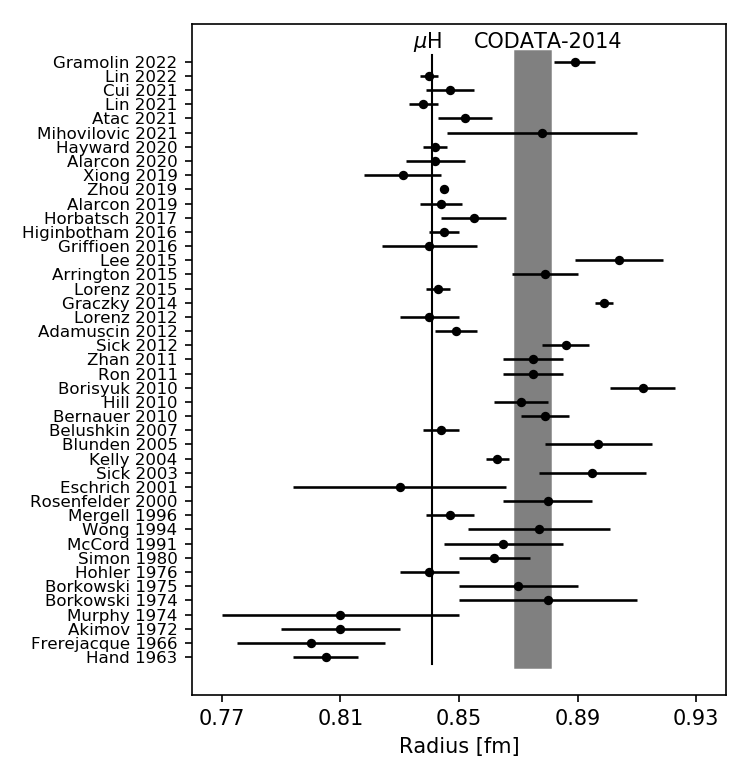
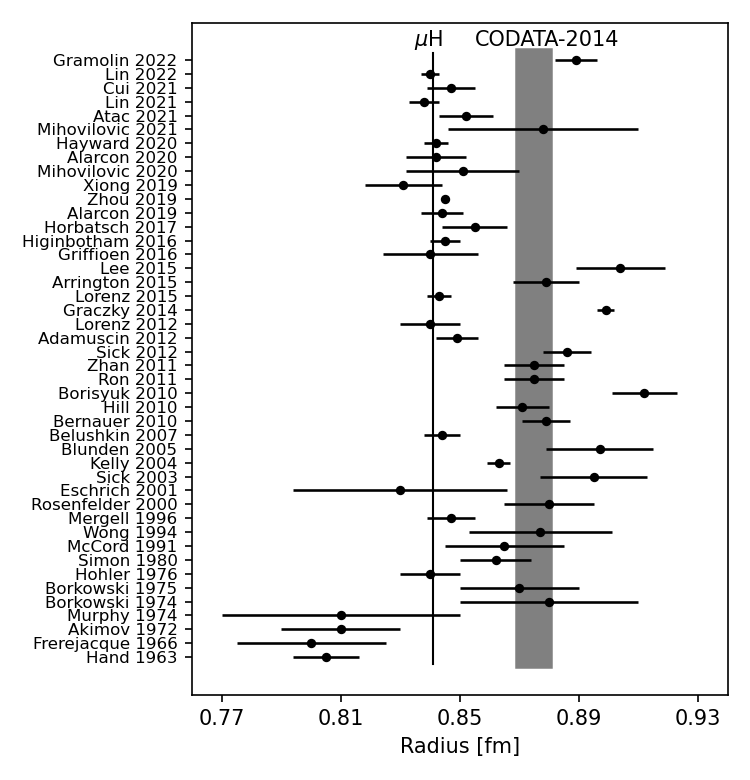
Added 2020 paper by Miha.

diff --git a/ScatteringResults.py b/ScatteringResults.py
@@ -43,14 +43,15 @@ mylist=np.array([
 ["Alarcon 2019",     33,  0.844,  0.007,  "https://doi.org/10.1103/PhysRevC.99.044303"  ],
 ["Zhou 2019",        34,  0.845,  0.001,  "https://doi.org/10.1103/PhysRevC.99.055202"  ],
 ["Xiong 2019",       35,  0.831,  0.013,  "https://doi.org/10.1038/s41586-019-1721-2"  ],
-["Alarcon 2020",     36,  0.842,  0.010,  "https://doi.org/10.1103/PhysRevC.102.035203"  ],
-["Hayward 2020",     37,  0.842,  0.004,  "https://doi.org/10.1016/j.nuclphysa.2020.121767"],
-["Mihovilovic 2021", 38,  0.878,  0.032,  "https://doi.org/10.1140/epja/s10050-021-00414-x" ],
-["Atac 2021",        39,  0.852,  0.009,  "https://doi.org/10.1140/epja/s10050-021-00389-9"],
-["Lin 2021",         40,  0.838,  0.005,  "https://doi.org/10.1016/j.physletb.2021.136254"],
-["Cui 2021",         41,  0.847,  0.008,  "https://doi.org/110.1103/PhysRevLett.127.092001"],
-["Lin 2022",         42,  0.840,  0.003,  "https://doi.org/10.1103/PhysRevLett.128.052002"],
-["Gramolin 2022",    43,  0.889,  0.007,  "https://doi.org/10.1103/PhysRevD.105.054004"]
+["Mihovilovic 2020", 36,  0.851,  0.019,  "https://doi.org/10.3389/fphy.2020.00036"], 
+["Alarcon 2020",     37,  0.842,  0.010,  "https://doi.org/10.1103/PhysRevC.102.035203"  ],
+["Hayward 2020",     38,  0.842,  0.004,  "https://doi.org/10.1016/j.nuclphysa.2020.121767"],
+["Mihovilovic 2021", 39,  0.878,  0.032,  "https://doi.org/10.1140/epja/s10050-021-00414-x" ],
+["Atac 2021",        40,  0.852,  0.009,  "https://doi.org/10.1140/epja/s10050-021-00389-9"],
+["Lin 2021",         41,  0.838,  0.005,  "https://doi.org/10.1016/j.physletb.2021.136254"],
+["Cui 2021",         42,  0.847,  0.008,  "https://doi.org/110.1103/PhysRevLett.127.092001"],
+["Lin 2022",         43,  0.840,  0.003,  "https://doi.org/10.1103/PhysRevLett.128.052002"],
+["Gramolin 2022",    44,  0.889,  0.007,  "https://doi.org/10.1103/PhysRevD.105.054004"]
 ])
 
 x  = mylist[:,2].astype(np.float)
@@ -72,11 +73,11 @@ plt.yticks(y, labels, rotation='horizontal',fontsize=8)
 plt.xticks(xaxis, xaxis, rotation='horizontal')
 plt.xlabel('Radius [fm]')
 plt.xlim(0.76,0.94)
-plt.plot([0.875,0.875],[1.5,42.5],'-',color='grey',lw=18,zorder=1,label='CODATA-2014')
-plt.annotate('CODATA-2014',xy=(0.855,44),color='black')
-plt.plot([0.84087,0.84087],[0.5,43.5],'-',color='black',lw=1,zorder=1,label='$\mu H$')
+plt.plot([0.875,0.875],[1.5,43.5],'-',color='grey',lw=18,zorder=1,label='CODATA-2014')
+plt.annotate('CODATA-2014',xy=(0.855,45),color='black')
+plt.plot([0.84087,0.84087],[0.5,44.5],'-',color='black',lw=1,zorder=1,label='$\mu H$')
 #plt.plot([0.875,0.875],[0,30.5],'-',color='black',lw=2,zorder=1,label='$\mu H$')
-plt.annotate('$\mu$H',xy=(0.8345,44))
+plt.annotate('$\mu$H',xy=(0.8345,45))
 plt.tight_layout()
 plt.savefig('ScatteringResults.png')
 plt.savefig('ScatteringResults.pdf')
